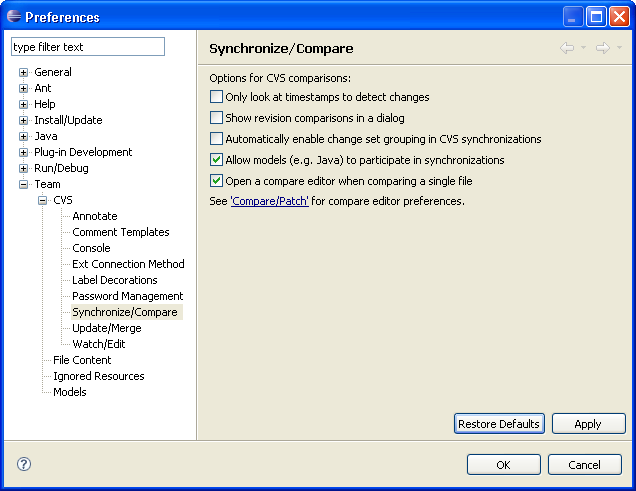
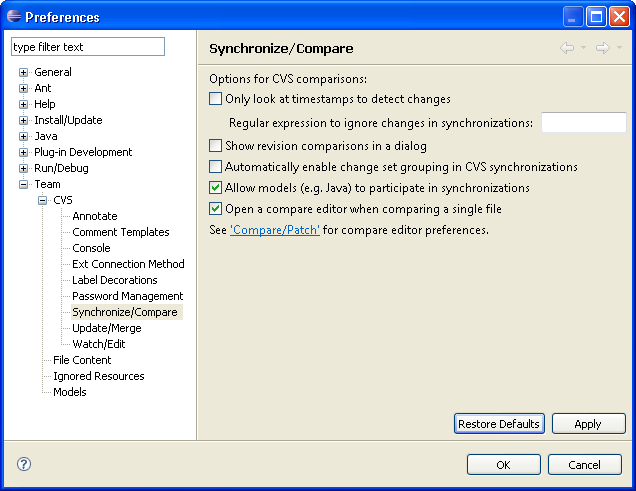
bug 364142 - Update the doc with the regex filter in CVS syncs

Changed region(s): [[0.3286, 0.1527, 0.9858, 0.4888]]

diff --git a/bundles/org.eclipse.platform.doc.user/reference/ref-19cvs-sync.htm b/bundles/org.eclipse.platform.doc.user/reference/ref-19cvs-sync.htm
@@ -29,13 +29,21 @@
   <tbody><tr> 
     <td align="left" valign="top" width="21%">Only look at timestamps to detect changes</td>
     <td align="left" valign="top" width="58%">For more precise comparison,
-      the contents can be compared. If performance is an issue this can be disabled
+      the contents can be compared. If performance is an issue this can be enabled
       to use the much faster time stamp based comparison. This option only applies
       to comparisons of remote resources or when comparing a selected project or folder
       with a branch or version. The option is not honored in synchronizations launched
       using the <b>Team &gt; Synchronize</b> menu command, the <b>Synchronize</b> toolbar command
       or the <b>Compare With &gt; Latest From &lt;branch/version&gt;</b> menu command.</td>
     <td align="left" valign="top" width="21%">Disabled</td>
+  </tr>
+  <tr>
+    <td align="left" valign="top">Regular expression to ignore changes in synchronizations</td>
+    <td align="left" valign="top">This option controls which changes should be ignored during
+    content-based synchronizations i.e. when <b>Only look at timestamps to detect changes</b> is
+    disabled. If at least one side of the change matches the defined regular expression, the change
+    will be ignored.</td>
+    <td align="left" valign="top">&nbsp;</td>
   </tr>
   <tr> 
     <td align="left" valign="top">Show revision comparisons in dialog</td>
